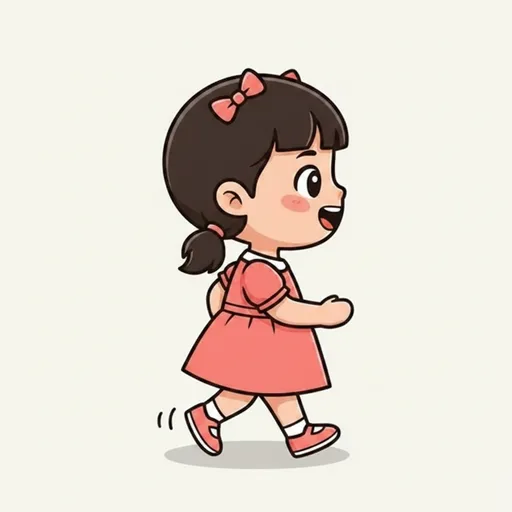
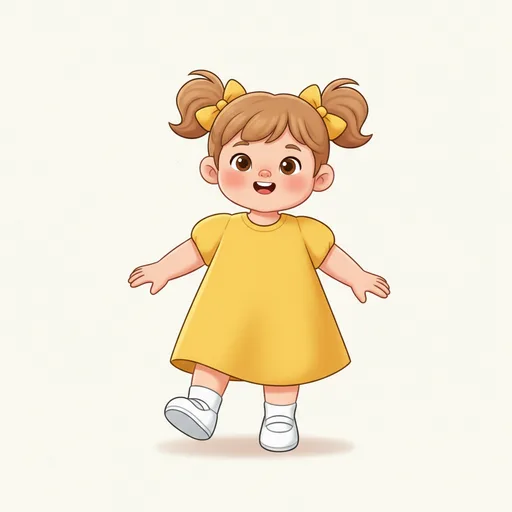
Feat: animation diversity Batch 2a — 8 verbs re-cast (locked method)
drinking (brown boy), walking (white girl), sleeping (Black boy), riding (Asian
girl), blowing bubbles (white boy), climbing (brown girl), kicking (Black girl),
reading (Asian boy). Frame 2 generated conditioned on frame 1 so clothing is
consistent from the start (no clean-up pass). Sleeping: act 1 awake/eyes-open →
act 2 lying flat asleep with floating "Zzz".

npm run check + verify-actions green.

Changed region(s): [[0.25, 0.125, 0.7812, 0.9375]]

diff --git a/TINYVVOICE_PROJECT_CONTEXT.md b/TINYVVOICE_PROJECT_CONTEXT.md
@@ -5,16 +5,16 @@ A git pre-commit hook auto-refreshes the metadata block below; the human-maintai
 sections (Build Status, Next Steps) are updated by hand each push.
 
 <!-- AUTO:START -->
-> _Auto-updated on commit — last refreshed **2026-08-28 18:59 UTC** on branch `main`._
+> _Auto-updated on commit — last refreshed **2026-08-28 20:03 UTC** on branch `main`._
 
 **Recent commits:**
 
+- `863b438 Fix: lock clothing consistency on dance/hug/wake (frame2 conditioned on frame1)`
 - `a0a5244 Feat: animation diversity Batch 1b — 6 verbs re-cast; Batch 1 complete`
 - `bc3f4e1 Feat: animation diversity Batch 1a — 5 verbs re-cast (fresh method)`
 - `a8f74d8 Feat: routine images — dressing/bath/park (NEW WORK Phase 4)`
 - `7be82dd Feat: routine wording — bedtime + bath (NEW WORK Phase 3)`
 - `10af227 Feat: listening-game language — plural prompts + eating image (NEW WORK Phase 2)`
-- `018b40f Feat: Word Board restructure (NEW WORK Phase 1)`
 <!-- AUTO:END -->
 
 ---
